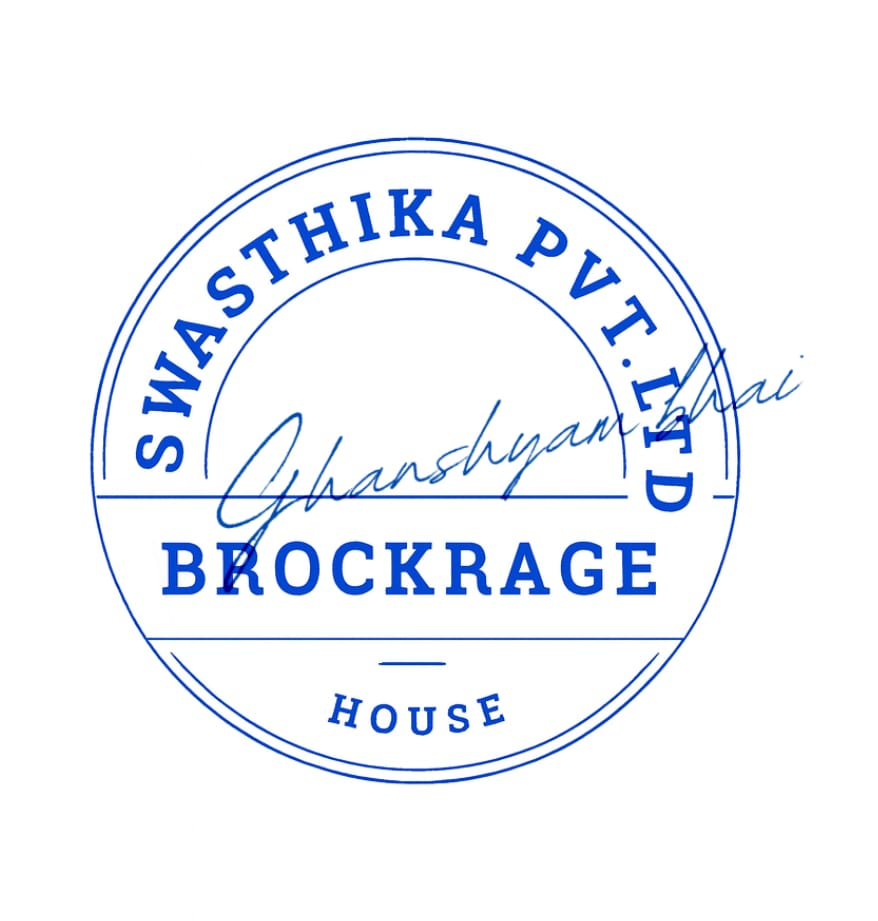
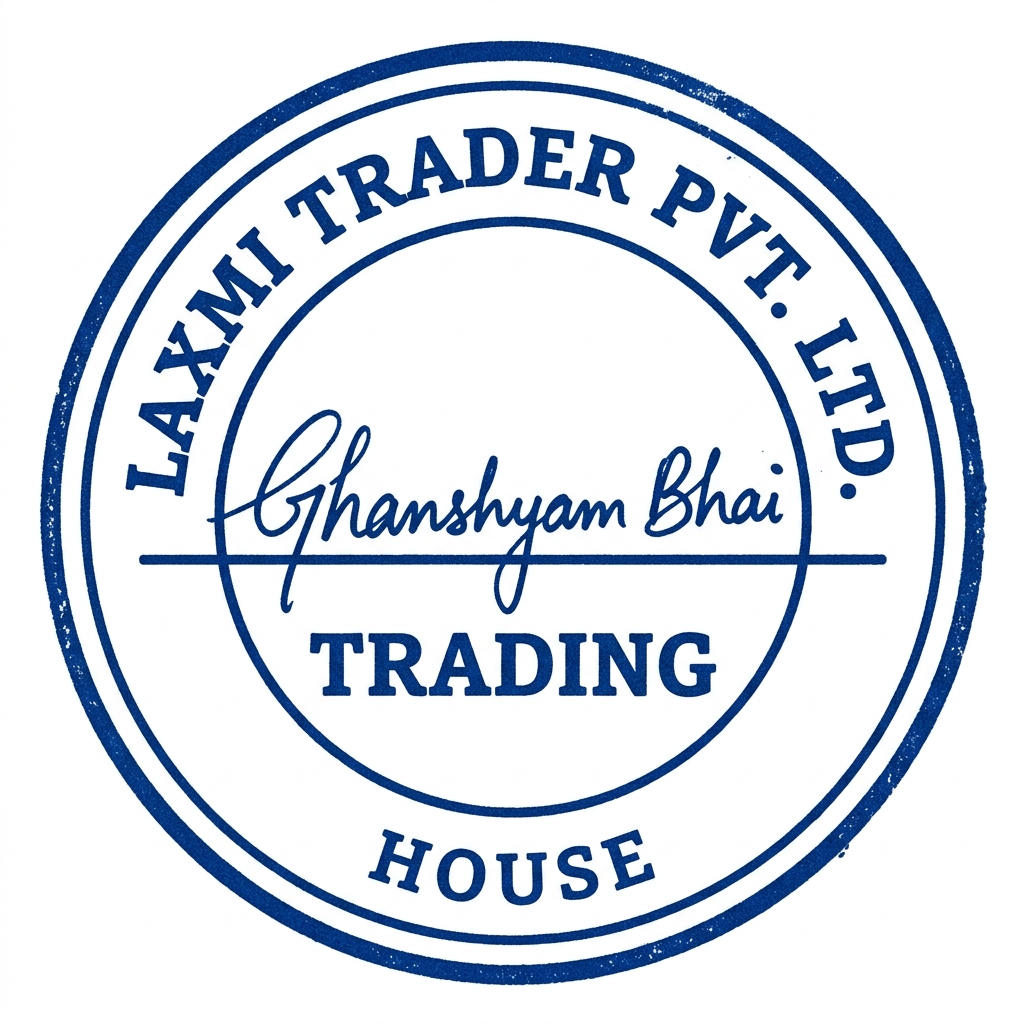
jdf

Changed region(s): [[0.0308, 0.0304, 0.9841, 0.9729]]

diff --git a/frontend/src/999999/Pages/Receipt.jsx b/frontend/src/999999/Pages/Receipt.jsx
@@ -146,7 +146,7 @@ const handleDownloadPDF = async () => {
             }}
           >
             <h2>
-             <span style={{ color:'rgba(255, 255, 255, 1)'}}>SWASTHIKA BROCKERAGE PVT.</span> 
+             <span style={{ color:'rgba(255, 255, 255, 1)'}}>LAXMI TRADER PVT. LTD.</span> 
               <br />
               <span style={{ fontSize: '12px', fontWeight: 400 , color:'white'}}>Trade Exit Receipt</span>
             </h2>
@@ -254,7 +254,7 @@ const handleDownloadPDF = async () => {
             }}
           >
              {/* KRISHNA ENT. PVT. LTD */}
-             <span style={{ color:'rgba(120, 183, 250, 0.76)'}}>SWASTHIKA BROCKERAGE PVT.</span> 
+             <span style={{ color:'rgba(120, 183, 250, 0.76)'}}>LAXMI TRADER PVT. LTD.</span> 
 
           </div>
         </div>

diff --git a/frontend/src/999999/Pages/TredBuyReceipt.jsx b/frontend/src/999999/Pages/TredBuyReceipt.jsx
@@ -90,7 +90,7 @@ function TredBuyReceipt() {
             }}
           >
             <h2>
-              <span style={{ color:'white' , fontSize : '20px'}}>SWASTHIKA BROKERAGE PVT. LTD</span>
+              <span style={{ color:'white' , fontSize : '20px'}}>LAXMI TRADER PVT. LTD.</span>
               <br />
               <span style={{ fontSize: '12px', fontWeight: 400, color: 'white' }}>
                 Trade Buy Receipt
@@ -166,7 +166,7 @@ function TredBuyReceipt() {
 
             }}
           >
-            <span style={{ color:'white'}}>© SWASTHIKA BROCKERAGE PVT. LTD</span>
+            <span style={{ color:'white'}}>© LAXMI TRADER PVT. LTD.</span>
           </div>
         </div>
 
